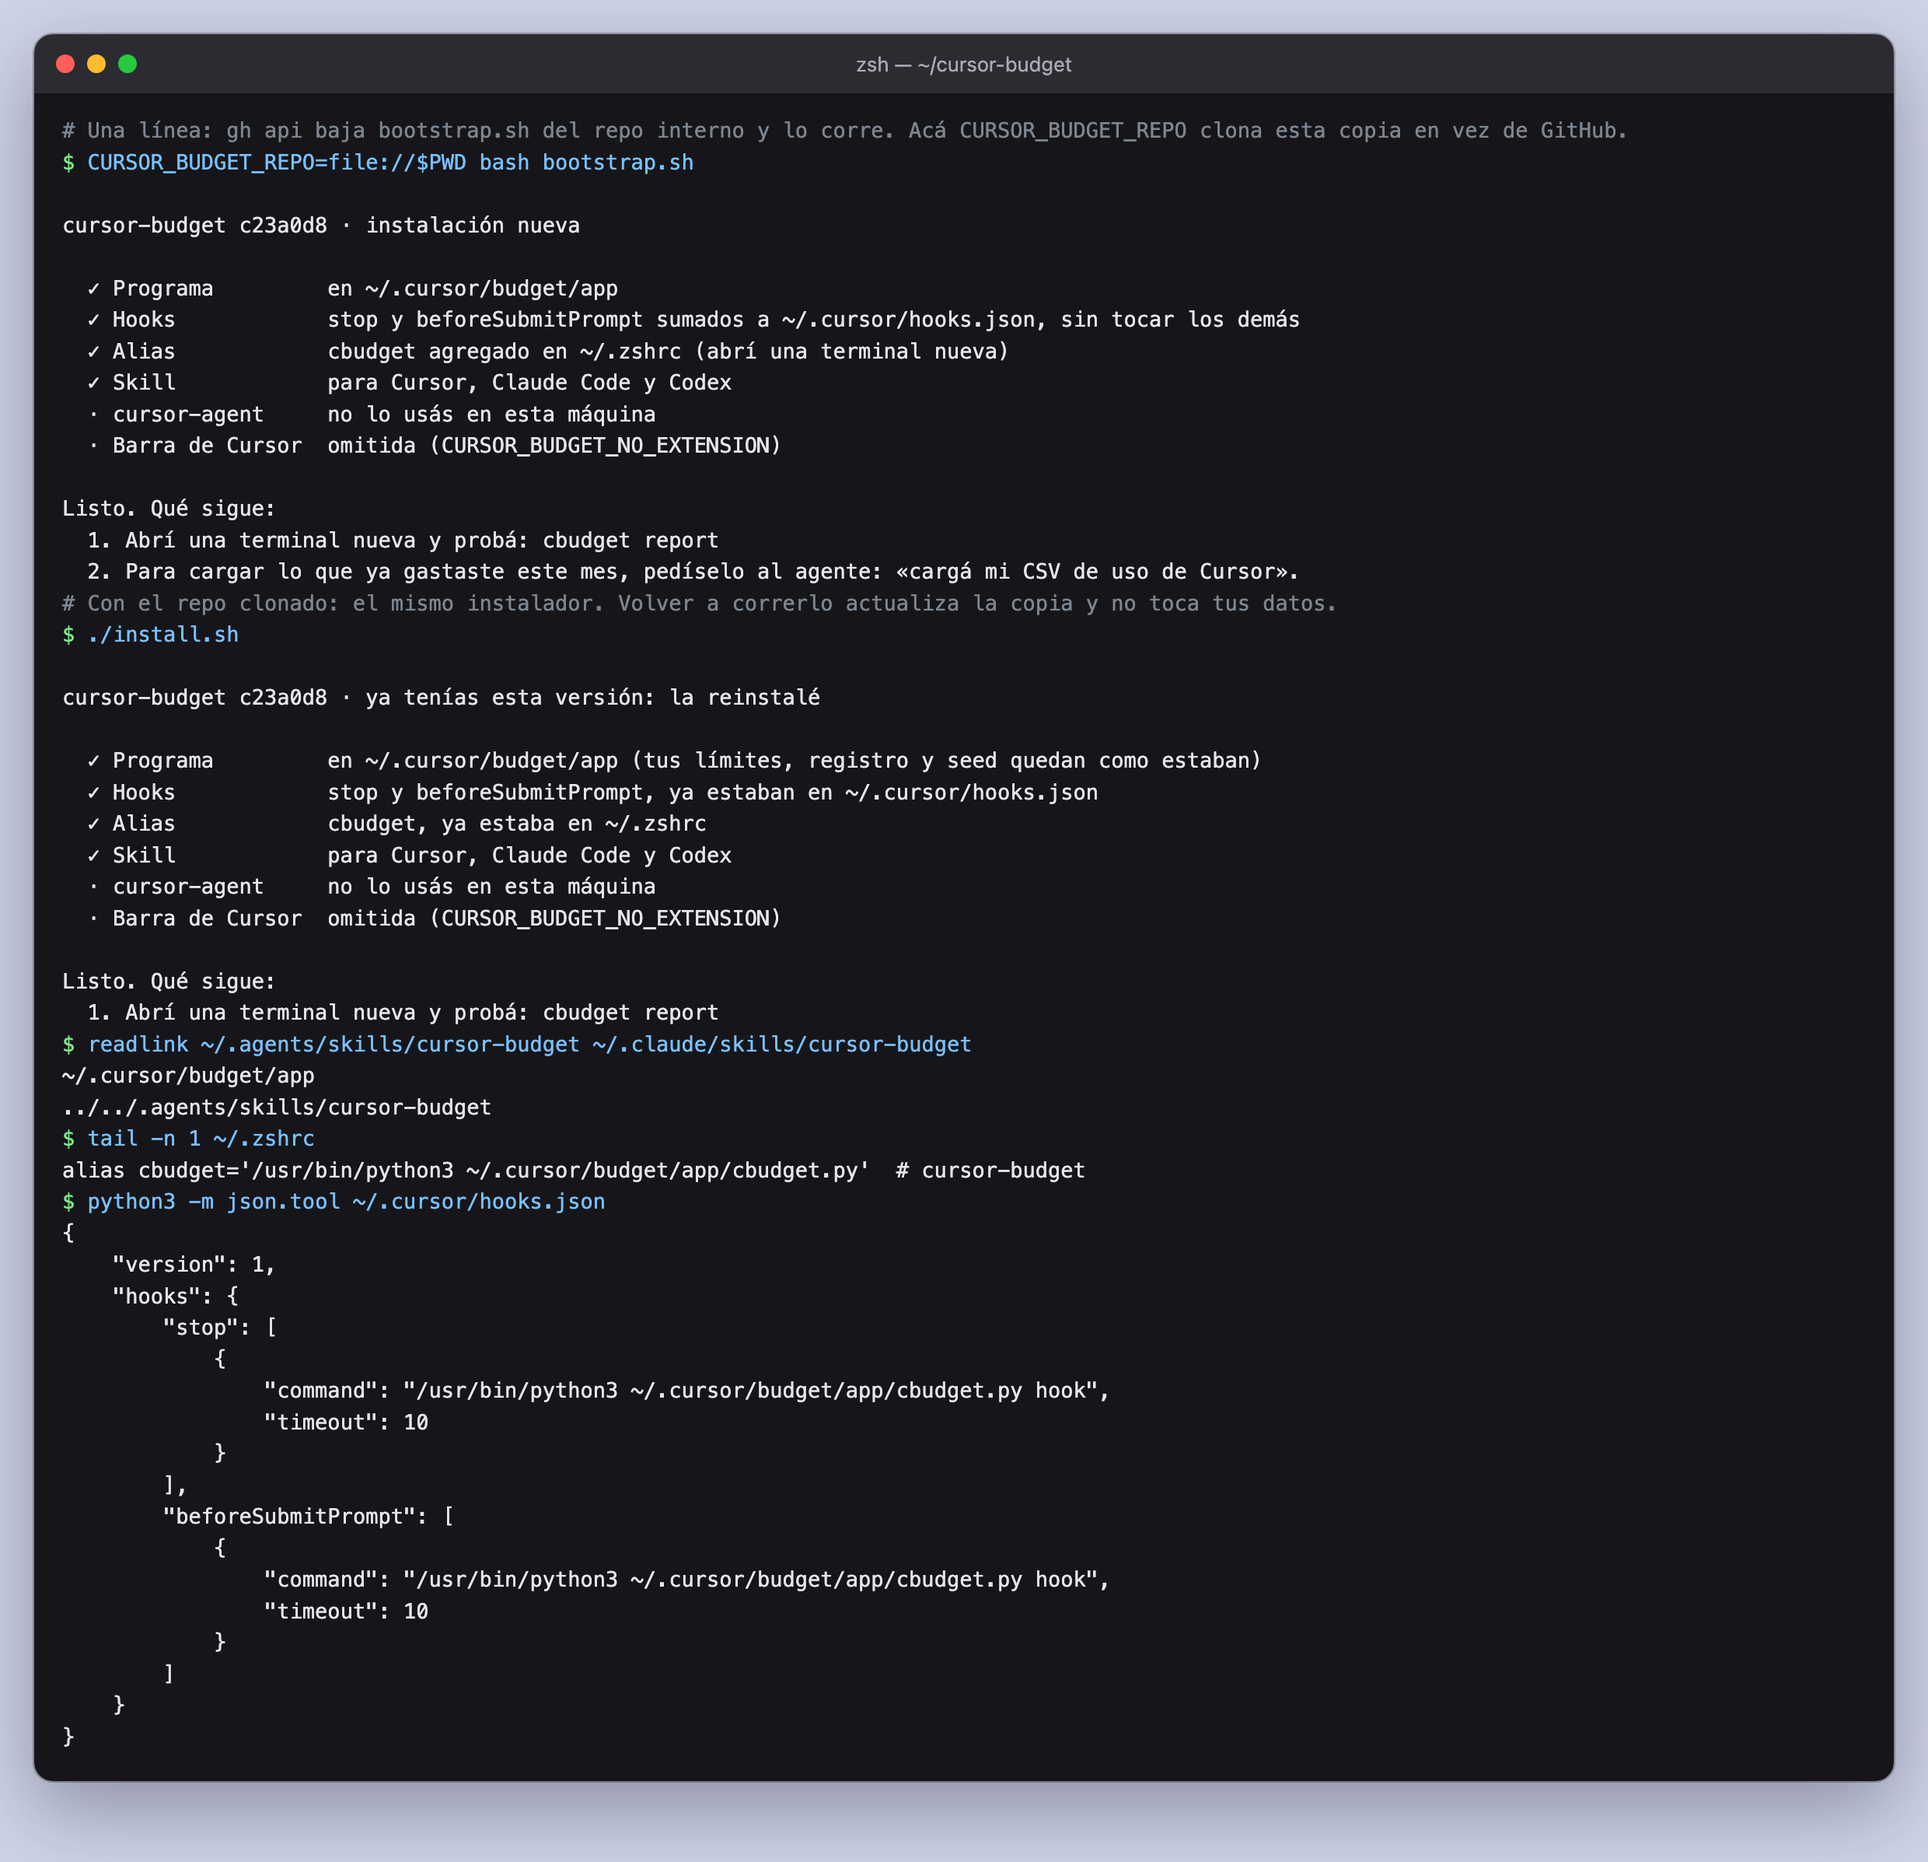
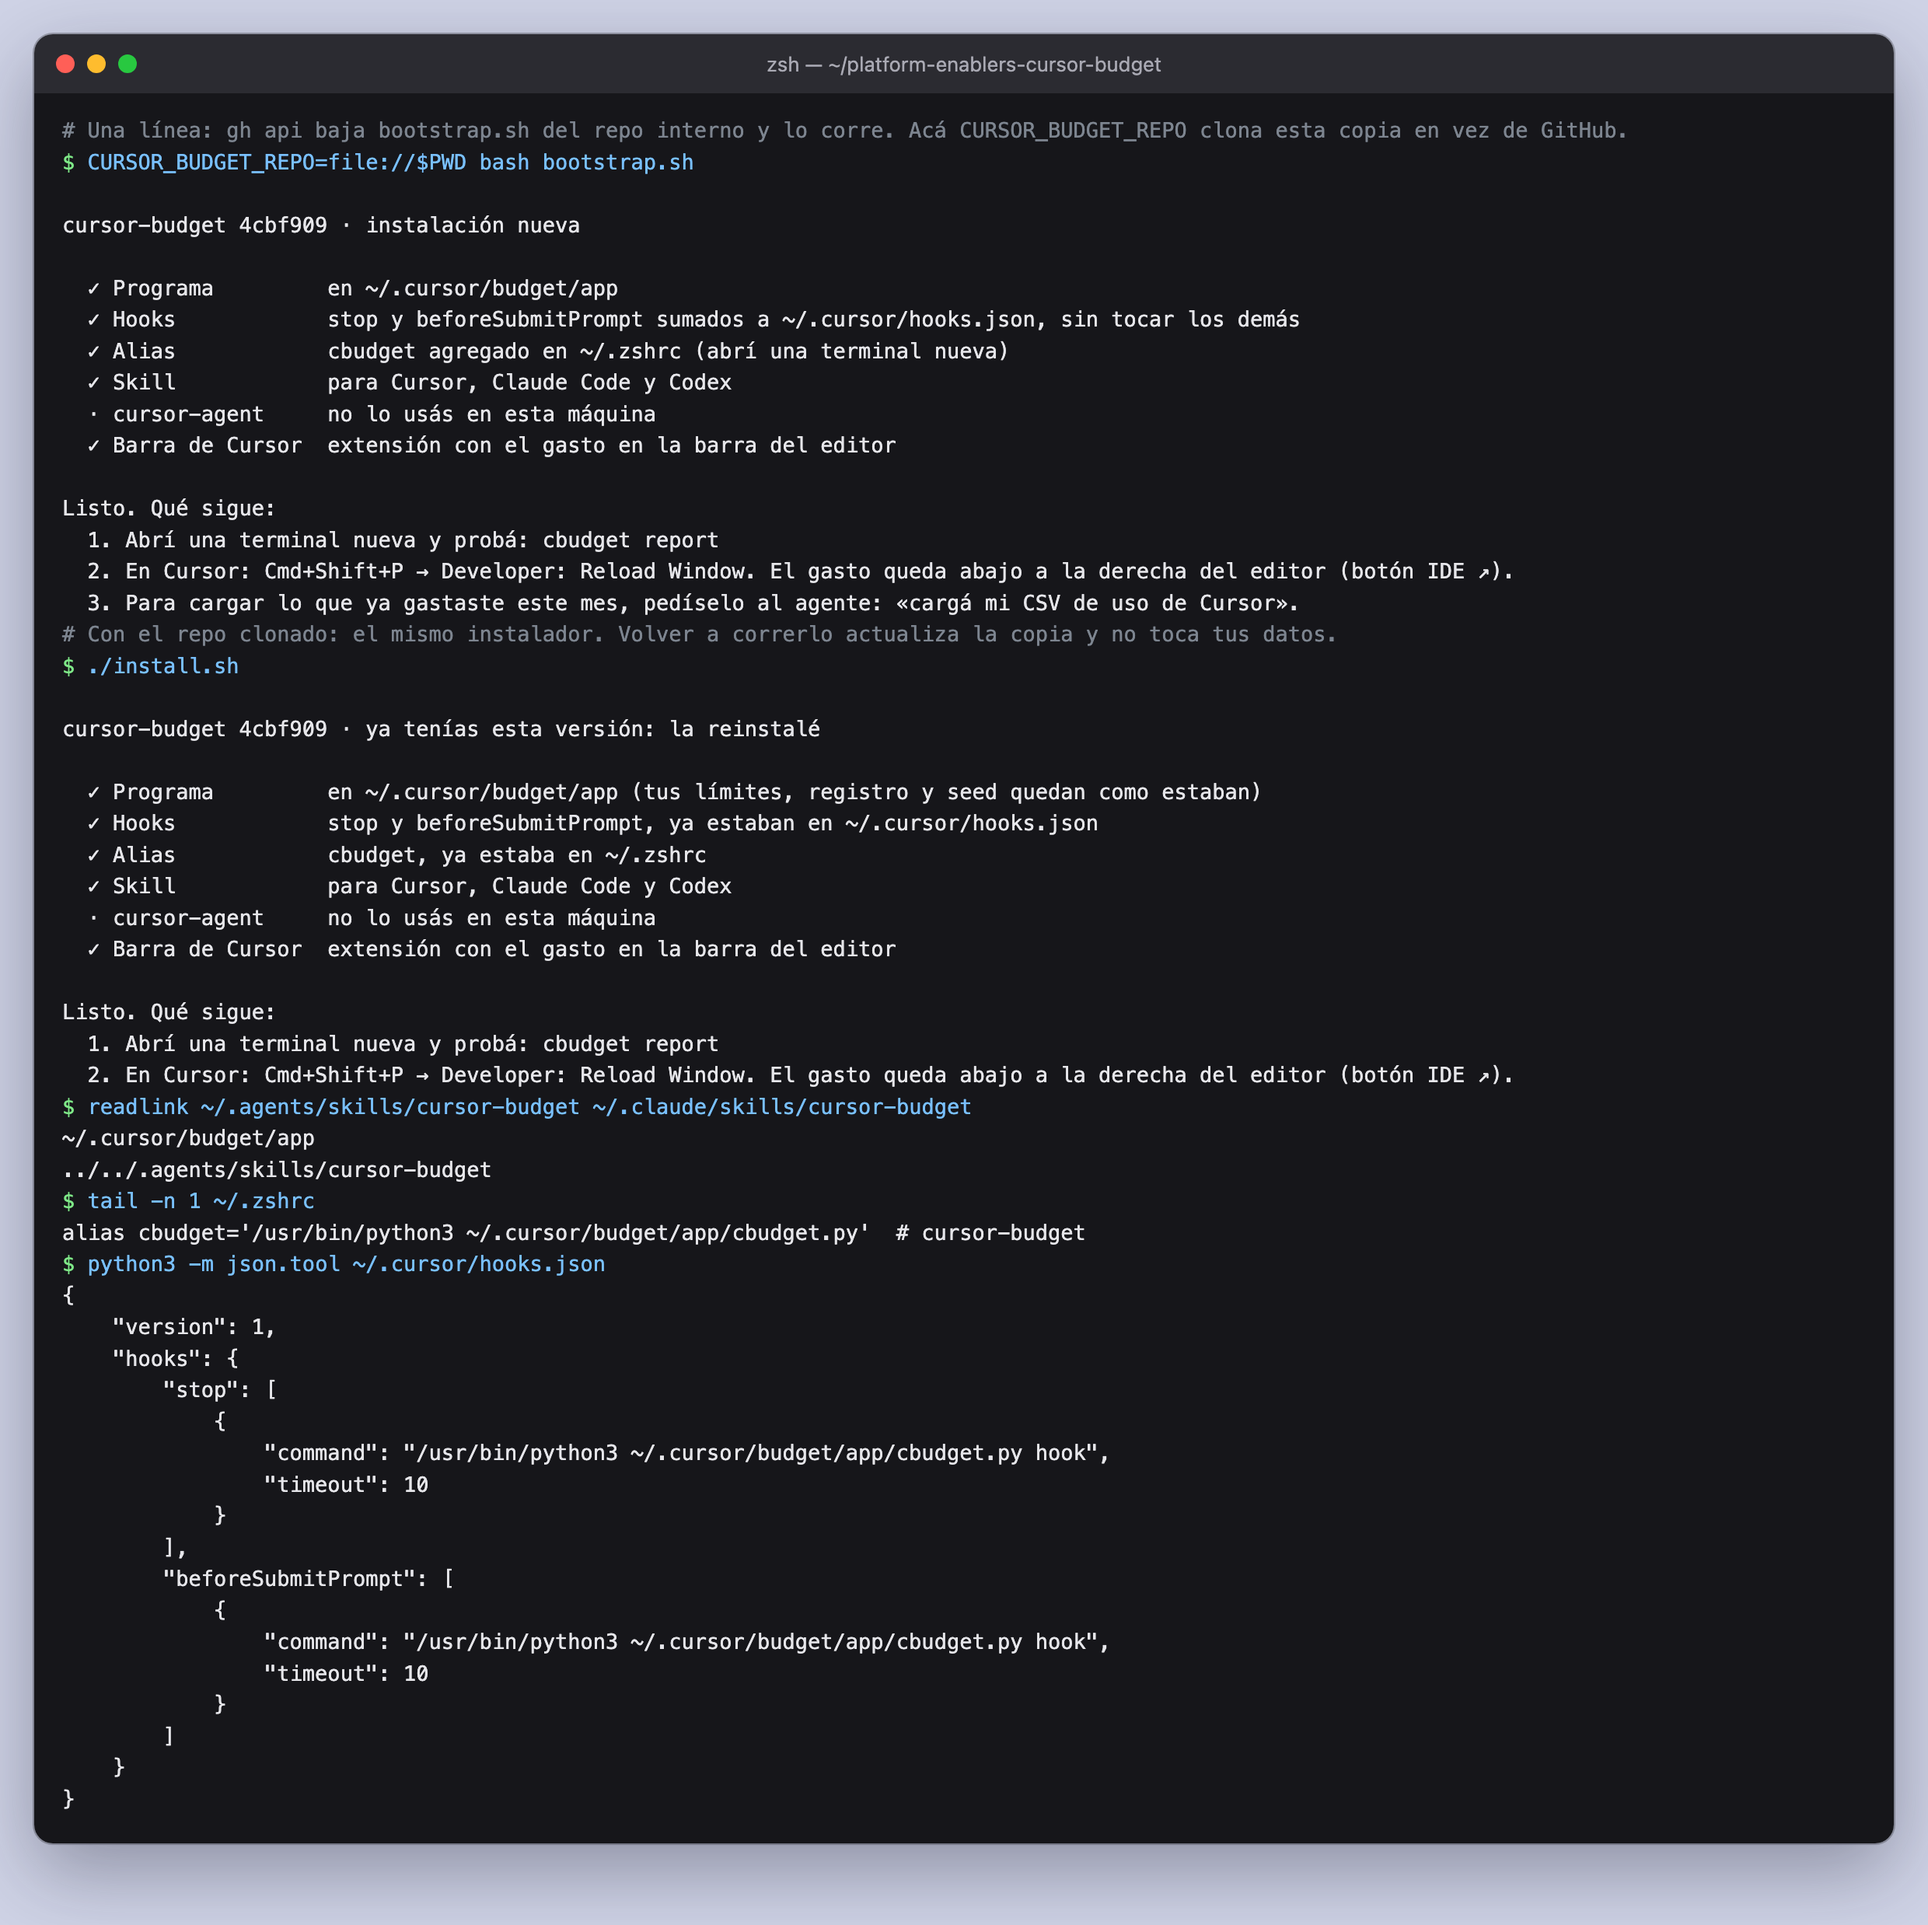
chore(docs): captures rerun deterministically, and only the ones named
capturas.sh gives the captured commands a fixed clock (a sitecustomize on PYTHONPATH, the tests' time) and the tests' time zone, so a second run changes nothing. Names limit what is rewritten; instalar always runs because uso and hook need it. The install capture now shows the extension row and the reload step, as a real install does.

diff --git a/docs/img/src/terminal-instalar.html b/docs/img/src/terminal-instalar.html
@@ -8,32 +8,34 @@
 .p{color:#7ee787}.c{color:#7d8590}.o{color:#e6e6ea}.k{color:#79c0ff}.a{color:#d2a8ff}.u{color:#ffa657}</style><div class="win" style="width:1196px"><div class="bar"><div class="dots"><span class="r"></span><span class="y"></span><span class="g"></span></div><div class="ttl">zsh — ~/cursor-budget</div></div><div class="term"><span class="c"># Una línea: gh api baja bootstrap.sh del repo interno y lo corre. Acá CURSOR_BUDGET_REPO clona esta copia en vez de GitHub.</span>
 <span class="p">$</span> <span class="k">CURSOR_BUDGET_REPO=file://$PWD bash bootstrap.sh</span>
 <span class="o"></span>
-<span class="o">cursor-budget c23a0d8 · instalación nueva</span>
+<span class="o">cursor-budget 4cbf909 · instalación nueva</span>
 <span class="o"></span>
 <span class="o">  ✓ Programa         en ~/.cursor/budget/app</span>
 <span class="o">  ✓ Hooks            stop y beforeSubmitPrompt sumados a ~/.cursor/hooks.json, sin tocar los demás</span>
 <span class="o">  ✓ Alias            cbudget agregado en ~/.zshrc (abrí una terminal nueva)</span>
 <span class="o">  ✓ Skill            para Cursor, Claude Code y Codex</span>
 <span class="o">  · cursor-agent     no lo usás en esta máquina</span>
-<span class="o">  · Barra de Cursor  omitida (CURSOR_BUDGET_NO_EXTENSION)</span>
+<span class="o">  ✓ Barra de Cursor  extensión con el gasto en la barra del editor</span>
 <span class="o"></span>
 <span class="o">Listo. Qué sigue:</span>
 <span class="o">  1. Abrí una terminal nueva y probá: cbudget report</span>
-<span class="o">  2. Para cargar lo que ya gastaste este mes, pedíselo al agente: «cargá mi CSV de uso de Cursor».</span>
+<span class="o">  2. En Cursor: Cmd+Shift+P → Developer: Reload Window. El gasto queda abajo a la derecha del editor (botón IDE ↗).</span>
+<span class="o">  3. Para cargar lo que ya gastaste este mes, pedíselo al agente: «cargá mi CSV de uso de Cursor».</span>
 <span class="c"># Con el repo clonado: el mismo instalador. Volver a correrlo actualiza la copia y no toca tus datos.</span>
 <span class="p">$</span> <span class="k">./install.sh</span>
 <span class="o"></span>
-<span class="o">cursor-budget c23a0d8 · ya tenías esta versión: la reinstalé</span>
+<span class="o">cursor-budget 4cbf909 · ya tenías esta versión: la reinstalé</span>
 <span class="o"></span>
 <span class="o">  ✓ Programa         en ~/.cursor/budget/app (tus límites, registro y seed quedan como estaban)</span>
 <span class="o">  ✓ Hooks            stop y beforeSubmitPrompt, ya estaban en ~/.cursor/hooks.json</span>
 <span class="o">  ✓ Alias            cbudget, ya estaba en ~/.zshrc</span>
 <span class="o">  ✓ Skill            para Cursor, Claude Code y Codex</span>
 <span class="o">  · cursor-agent     no lo usás en esta máquina</span>
-<span class="o">  · Barra de Cursor  omitida (CURSOR_BUDGET_NO_EXTENSION)</span>
+<span class="o">  ✓ Barra de Cursor  extensión con el gasto en la barra del editor</span>
 <span class="o"></span>
 <span class="o">Listo. Qué sigue:</span>
 <span class="o">  1. Abrí una terminal nueva y probá: cbudget report</span>
+<span class="o">  2. En Cursor: Cmd+Shift+P → Developer: Reload Window. El gasto queda abajo a la derecha del editor (botón IDE ↗).</span>
 <span class="p">$</span> <span class="k">readlink ~/.agents/skills/cursor-budget ~/.claude/skills/cursor-budget</span>
 <span class="o">~/.cursor/budget/app</span>
 <span class="o">../../.agents/skills/cursor-budget</span>

diff --git a/docs/img/src/terminal-hook.html b/docs/img/src/terminal-hook.html
@@ -9,13 +9,13 @@
 <span class="p">$</span> <span class="k">echo &#x27;{&quot;hook_event_name&quot;:&quot;beforeSubmitPrompt&quot;,&quot;model&quot;:&quot;claude-opus-5-5-high&quot;,&quot;conversation_id&quot;:&quot;c1&quot;}&#x27; | cbudget hook</span>
 <span class="o">{&quot;continue&quot;: false, &quot;user_message&quot;: &quot;cursor-budget: el modelo claude-opus-5-5-high est\u00e1 bloqueado; eleg\u00ed otro o corr\u00e9 `cbudget allow`&quot;}</span>
 <span class="p">$</span> <span class="k">tail -n 1 ~/.cursor/budget/blocks.jsonl</span>
-<span class="o">{&quot;t&quot;: 1792879736, &quot;conversation_id&quot;: &quot;c1&quot;, &quot;model&quot;: &quot;claude-opus-5-5-high&quot;, &quot;reason&quot;: &quot;el modelo claude-opus-5-5-high está bloqueado; elegí otro o corré `cbudget allow`&quot;}</span>
+<span class="o">{&quot;t&quot;: 1792850000, &quot;conversation_id&quot;: &quot;c1&quot;, &quot;model&quot;: &quot;claude-opus-5-5-high&quot;, &quot;reason&quot;: &quot;el modelo claude-opus-5-5-high está bloqueado; elegí otro o corré `cbudget allow`&quot;}</span>
 <span class="p">$</span> <span class="k">cbudget allow --minutes 30</span>
-<span class="o">bloqueos levantados hasta las 19:38</span>
+<span class="o">bloqueos levantados hasta las 11:23</span>
 <span class="p">$</span> <span class="k">echo &#x27;{&quot;hook_event_name&quot;:&quot;beforeSubmitPrompt&quot;,&quot;model&quot;:&quot;claude-opus-5-5-high&quot;,&quot;conversation_id&quot;:&quot;c1&quot;}&#x27; | cbudget hook</span>
 <span class="o">{}</span>
 <span class="c"># Y al terminar cada turno, los tokens que Cursor informa</span>
 <span class="p">$</span> <span class="k">echo &#x27;{&quot;hook_event_name&quot;:&quot;stop&quot;,&quot;model&quot;:&quot;claude-sonnet-5-5-high&quot;,&quot;conversation_id&quot;:&quot;c1&quot;,&quot;input_tokens&quot;:240000,&quot;cache_read_tokens&quot;:200000,&quot;output_tokens&quot;:8000}&#x27; | cbudget hook</span>
 <span class="o">{}</span>
 <span class="p">$</span> <span class="k">tail -n 1 ~/.cursor/budget/ledger.jsonl</span>
-<span class="o">{&quot;t&quot;: 1792879736, &quot;conversation_id&quot;: &quot;c1&quot;, &quot;model&quot;: &quot;claude-sonnet-5-5-high&quot;, &quot;usd&quot;: 0.242, &quot;input_tokens&quot;: 240000, &quot;output_tokens&quot;: 8000, &quot;cache_read_tokens&quot;: 200000, &quot;cache_write_tokens&quot;: null}</span></div></div>
+<span class="o">{&quot;t&quot;: 1792850000, &quot;conversation_id&quot;: &quot;c1&quot;, &quot;model&quot;: &quot;claude-sonnet-5-5-high&quot;, &quot;usd&quot;: 0.242, &quot;input_tokens&quot;: 240000, &quot;output_tokens&quot;: 8000, &quot;cache_read_tokens&quot;: 200000, &quot;cache_write_tokens&quot;: null}</span></div></div>

diff --git a/docs/img/src/fixed_clock/sitecustomize.py b/docs/img/src/fixed_clock/sitecustomize.py
@@ -1,0 +1,7 @@
+"""Captures only: every python3 that capturas.sh starts reads the same clock, the tests' (2026-10-24 10:53 -03).
+
+Python imports sitecustomize before anything else, so cbudget's `now=time.time` defaults bind to this one too. With it a
+rerun rewrites no capture whose commands and code did not change."""
+import time
+
+time.time = lambda: 1792850000.0

diff --git a/README.md b/README.md
@@ -66,7 +66,7 @@ fuera de todo repo.
 python3 -m unittest discover -s tests
 /usr/bin/python3 -m unittest discover -s tests   # compatibilidad con 3.9
 python3 ../harness-docs/hdoc.py check            # la documentación sigue el formato de las skills de Harness
-docs/img/src/capturas.sh                         # rehace todas las capturas
+docs/img/src/capturas.sh [terminal-report ...]   # rehace las capturas (todas, o las nombradas)
 ```
 
 El episodio del taller de skills (instalar, el caso principal en el chat de Cursor, la terminal, cuando te frena,
@@ -76,4 +76,6 @@ quien presenta. La terminal sale en color: sus pasos `term` llevan `"color": tru
 `python3 <taller>/build.py --root workshop build`.
 
 TDD y Conventional Commits. `docs/img/src/capturas.sh` corre los guiones de terminal contra un `HOME` descartable, sin
-mandar notificaciones, arma las maquetas con `gen_mocks.py` y pasa todo a PNG con `hdoc render`.
+mandar notificaciones, arma las maquetas con `gen_mocks.py` y pasa todo a PNG con `hdoc render`. Corre con un reloj fijo
+(`docs/img/src/fixed_clock/`) y la zona horaria de los tests, así que volver a correrlo solo cambia las capturas cuyo
+comando o código cambió; lo único que depende de la máquina es el commit instalado y si hay Cursor para la extensión.
